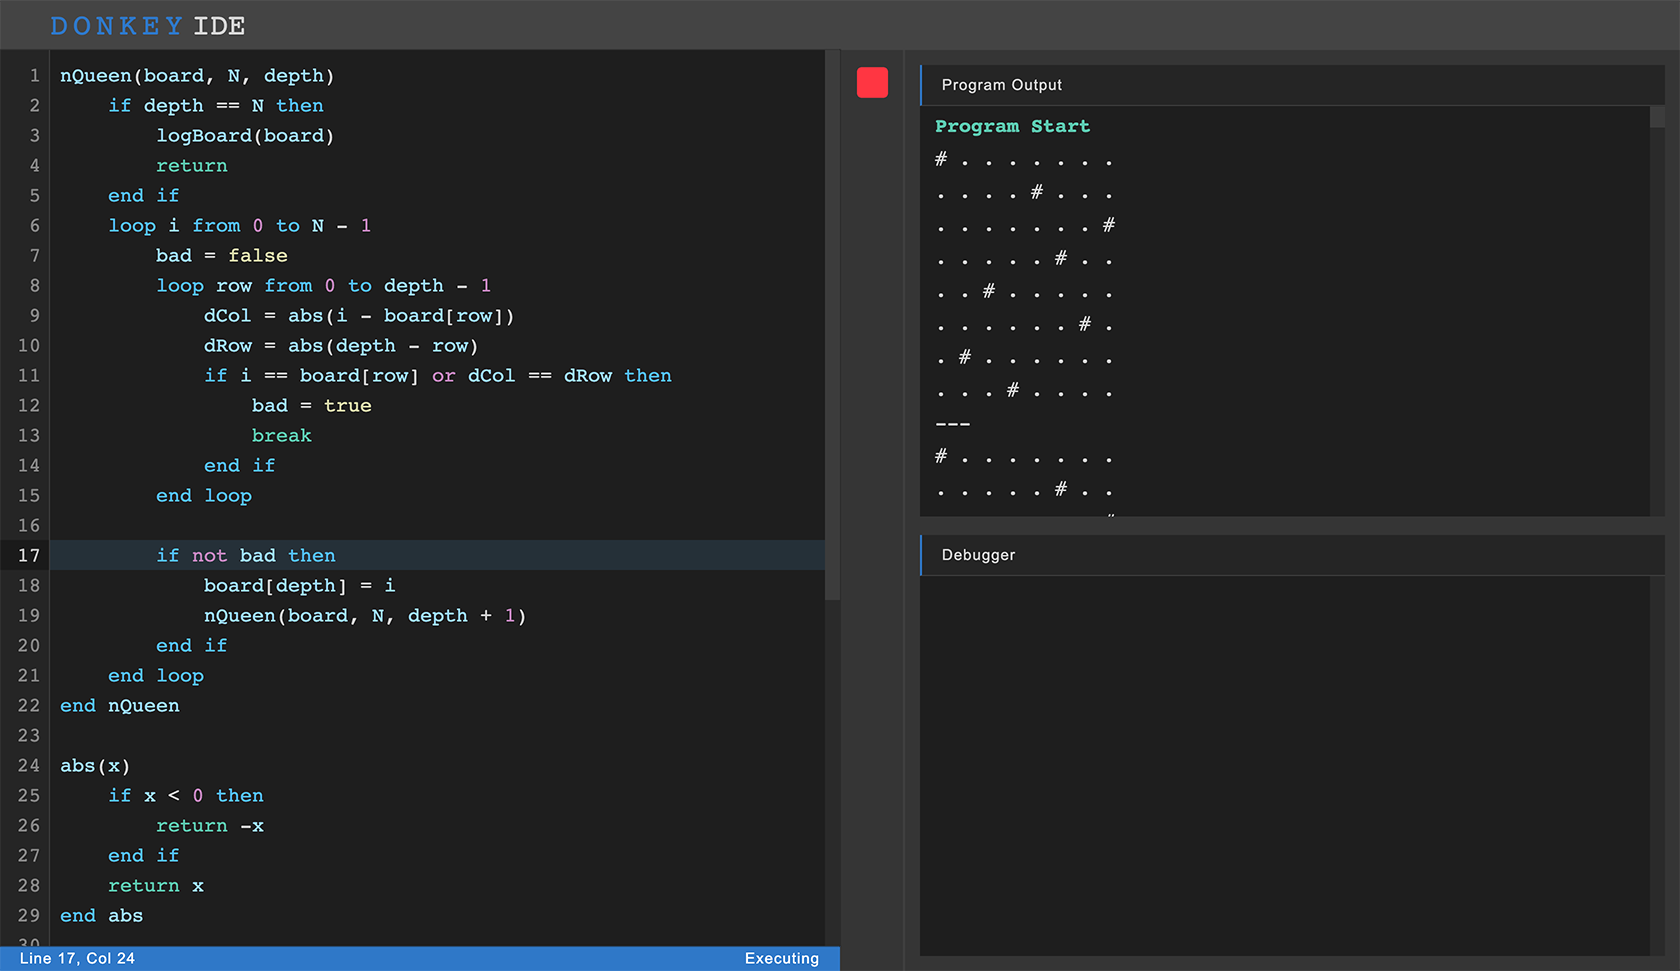
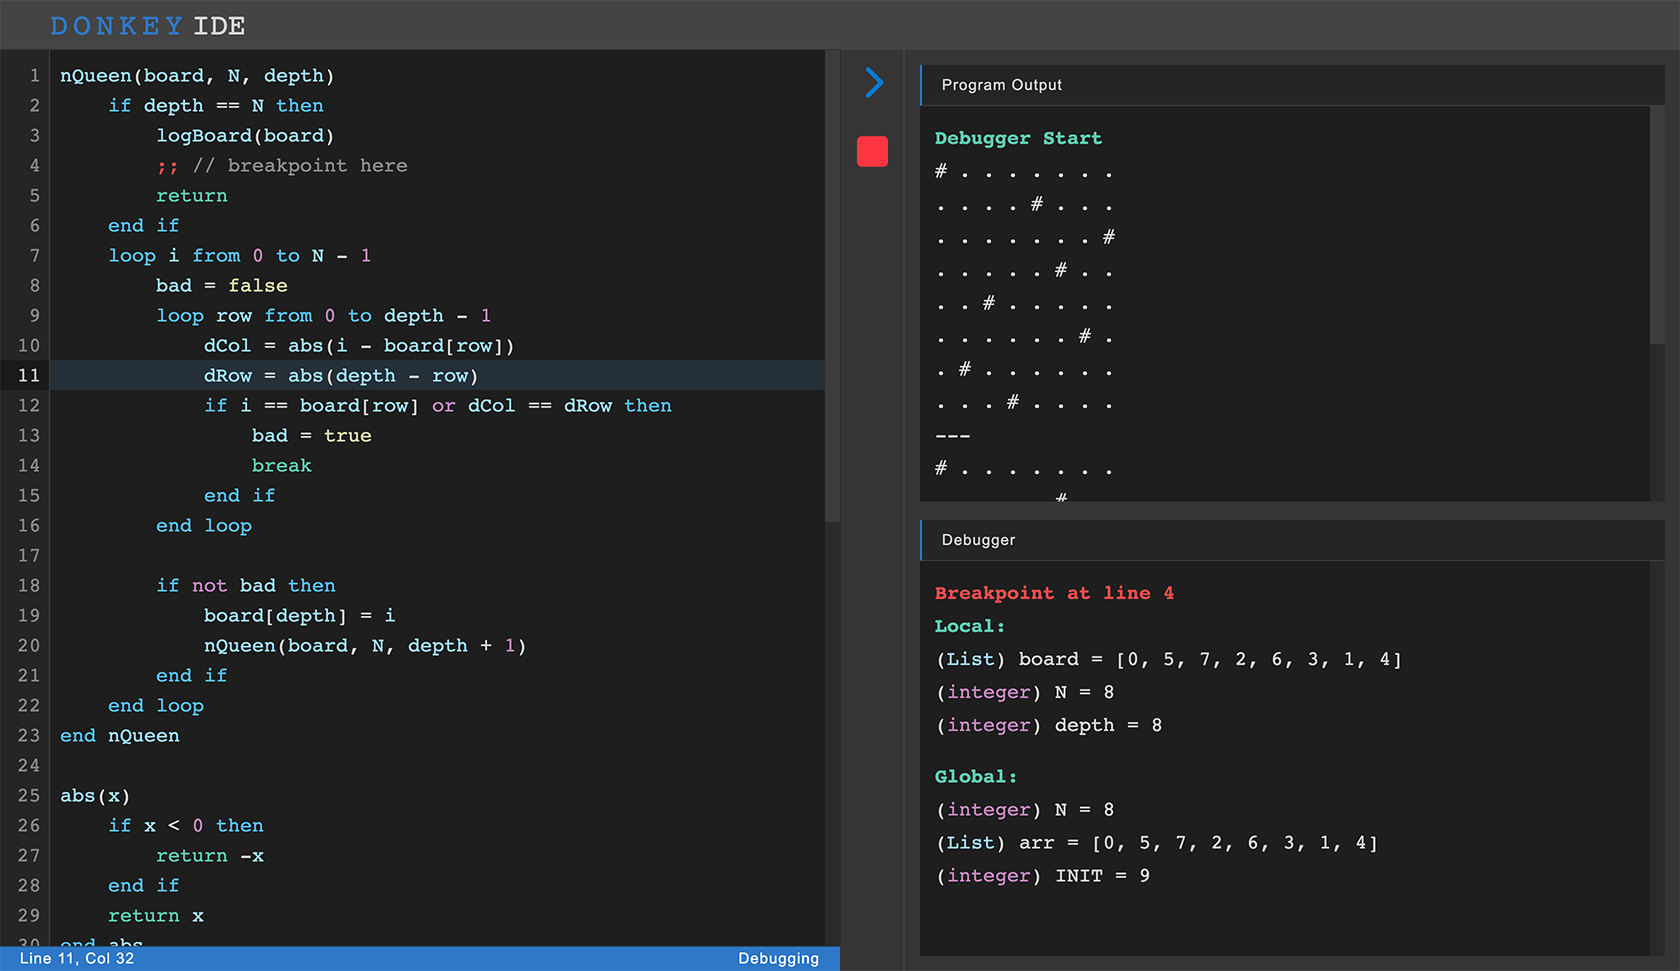
new img with debugger info

diff --git a/src/interface.js b/src/interface.js
@@ -20,6 +20,15 @@ function runCode(debugMode = false) {
     $('#debugger-panel').empty();
     printBold(`${debugMode ? 'Debugger' : 'Program'} Start`, '#00CDAF');
 
+    if (debugMode) {
+        /*
+            If a termination signal is received after a breakpoint hit,
+            the interface will actually not disable the continue button,
+            so here's a manual solution.
+        */
+        $('#next-code').addClass('disabled-div');
+    }
+
     parseAndRun(Editor.getEditorContent(), debugMode);
 }
 
